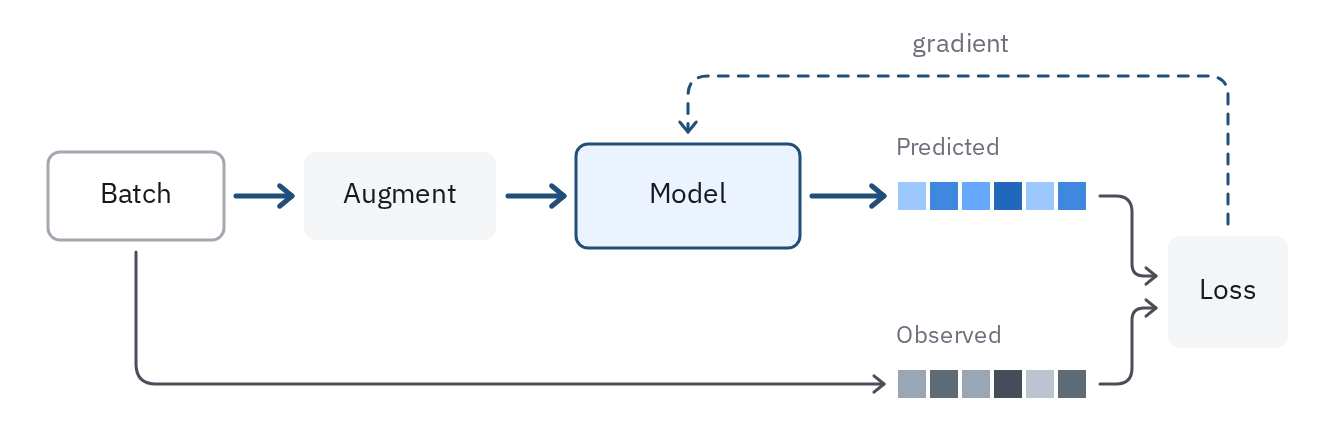
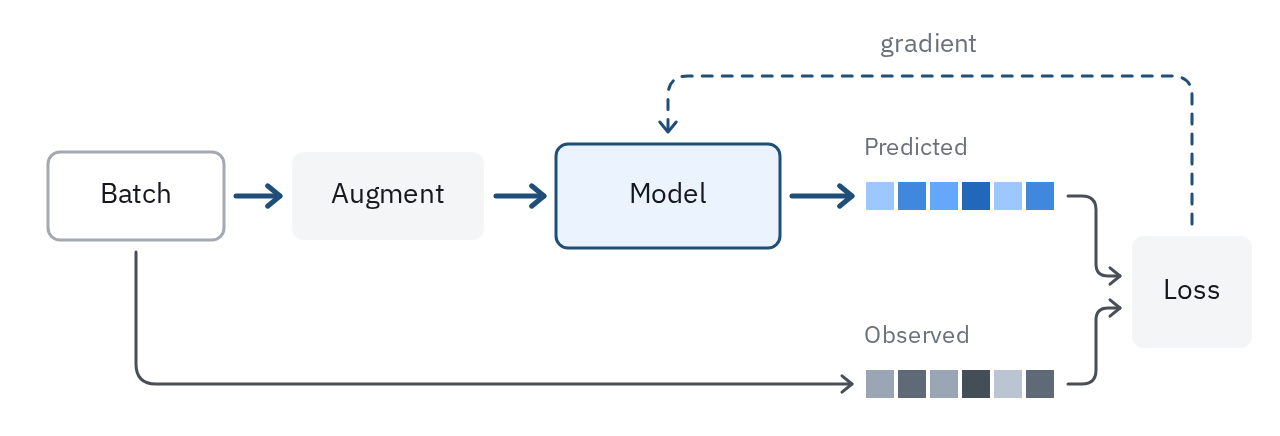
Fit form 28's two figures side by side on the contact sheet
The training step narrows to 640 px and the tree search to 784 px (56 px
state cards, 188 px columns), so the pair shares a row.

diff --git a/core/charts/forms/28-procedure-schematic.md b/core/charts/forms/28-procedure-schematic.md
@@ -30,27 +30,27 @@ It reads left to right, or top to bottom when the steps are tall.
 
 ![One training step: a batch, augmented, passed through the model; the prediction compared with the observed values; the loss's gradient fed back to the model](out/28-procedure-schematic.main.png)
 
-```js figure=main w=660 h=218
+```js figure=main w=640 h=218
 const S = GA.schematic(ga);
 const batch = S.block({ x: 24, y: 76, w: 88, h: 44, role: "data", label: "Batch" });
-const aug = S.block({ x: 152, y: 76, w: 96, h: 44, role: "op", label: "Augment" });
-const model = S.block({ x: 288, y: 72, w: 112, h: 52, role: "model", label: "Model" });
-const pred = S.cells({ x: 448, y: 90, n: 6, cell: 16, fill: (i) => tok(`blue-${[300, 500, 400, 600, 300, 500][i]}`) });
-const obs = S.cells({ x: 448, y: 184, n: 6, cell: 16, fill: (i) => tok(`slate-${[400, 600, 400, 700, 300, 600][i]}`) });
-ga.text("Predicted", { x: 448, y: 68, role: "tick", size: 12, color: "var(--muted)" });
-ga.text("Observed", { x: 448, y: 162, role: "tick", size: 12, color: "var(--muted)" });
-const loss = S.block({ x: 584, y: 118, w: 60, h: 56, role: "op", label: "Loss" });
+const aug = S.block({ x: 146, y: 76, w: 96, h: 44, role: "op", label: "Augment" });
+const model = S.block({ x: 278, y: 72, w: 112, h: 52, role: "model", label: "Model" });
+const pred = S.cells({ x: 432, y: 90, n: 6, cell: 16, fill: (i) => tok(`blue-${[300, 500, 400, 600, 300, 500][i]}`) });
+const obs = S.cells({ x: 432, y: 184, n: 6, cell: 16, fill: (i) => tok(`slate-${[400, 600, 400, 700, 300, 600][i]}`) });
+ga.text("Predicted", { x: 432, y: 68, role: "tick", size: 12, color: "var(--muted)" });
+ga.text("Observed", { x: 432, y: 162, role: "tick", size: 12, color: "var(--muted)" });
+const loss = S.block({ x: 566, y: 118, w: 60, h: 56, role: "op", label: "Loss" });
 // the forward path
 S.wire([S.port(batch, "r"), S.port(aug, "l")], { from: batch, to: aug });
 S.wire([S.port(aug, "r"), S.port(model, "l")], { from: aug, to: model });
 S.wire([S.port(model, "r"), S.port(pred, "l")], { from: model, to: pred });
-S.wire([S.port(pred, "r"), { x: 566, y: 98 }, { x: 566, y: 138 }, S.port(loss, "l", 20 / 56)], { tone: "minor", from: pred, to: loss });
+S.wire([S.port(pred, "r"), { x: 548, y: 98 }, { x: 548, y: 138 }, S.port(loss, "l", 20 / 56)], { tone: "minor", from: pred, to: loss });
 // the observed values go round the model, straight to the comparison
 S.wire([S.port(batch, "b"), { x: 68, y: 192 }, S.port(obs, "l")], { tone: "minor", from: batch, to: obs });
-S.wire([S.port(obs, "r"), { x: 566, y: 192 }, { x: 566, y: 154 }, S.port(loss, "l", 36 / 56)], { tone: "minor", from: obs, to: loss });
+S.wire([S.port(obs, "r"), { x: 548, y: 192 }, { x: 548, y: 154 }, S.port(loss, "l", 36 / 56)], { tone: "minor", from: obs, to: loss });
 // the gradient, fed back outside the forward path
-S.wire([S.port(loss, "t"), { x: 614, y: 38 }, { x: 344, y: 38 }, S.port(model, "t")], { tone: "minor", color: "var(--prussian)", dash: true, from: loss, to: model });
-ga.text("gradient", { x: 456, y: 16, role: "note", size: 13 });
+S.wire([S.port(loss, "t"), { x: 596, y: 38 }, { x: 334, y: 38 }, S.port(model, "t")], { tone: "minor", color: "var(--prussian)", dash: true, from: loss, to: model });
+ga.text("gradient", { x: 440, y: 16, role: "note", size: 13 });
 ```
 
 ## Steps in a row
@@ -77,7 +77,7 @@ the thing itself, and ink only what that step touches.
 
 ![A treatment search in four steps over patient-record cards: select a path by Q, expand its leaf into two new histories, evaluate one by its value and a rollout to the end of the record, back the value up the path](out/28-procedure-schematic.steps-in-a-row.png)
 
-```js figure=steps-in-a-row w=816 h=456
+```js figure=steps-in-a-row w=784 h=456
 const S = GA.schematic(ga);
 const INK = "var(--ink)", CTX = "var(--context)", PRU = "var(--prussian)", MUT = "var(--muted)";
 // a state is the record so far: earlier therapy, then one interval per action (a, b)
@@ -88,7 +88,7 @@ const record = (acts) => [
 ];
 const HIST = { R: "", A: "a", B: "b", C: "ba", D: "bb", E: "baa", F: "bab", T: "baab" };
 const KIDS = { R: ["A", "B"], B: ["C", "D"], C: ["E", "F"] };
-const at = (x0) => ({ R: [x0 + 90, 96], A: [x0 + 40, 172], B: [x0 + 130, 172], C: [x0 + 92, 248], D: [x0 + 166, 248], E: [x0 + 52, 324], F: [x0 + 128, 324], T: [x0 + 52, 412] });
+const at = (x0) => ({ R: [x0 + 86, 96], A: [x0 + 38, 172], B: [x0 + 126, 172], C: [x0 + 92, 248], D: [x0 + 160, 248], E: [x0 + 52, 324], F: [x0 + 128, 324], T: [x0 + 52, 412] });
 // per step: tone of each state, inked edges, edges a step adds, the edge label
 const STEPS = [
   { name: "Select", nodes: "RABCD", ink: "RBC", add: "", edges: ["R-B", "B-C"], label: "Q" },
@@ -97,14 +97,14 @@ const STEPS = [
   { name: "Back up", nodes: "RABCDEF", ink: "RBCE", add: "", edges: [], up: ["E-C", "C-B", "B-R"] },
 ];
 // depth guides, across every column
-ga.raw([134, 210, 286].map((y) => `<path d="M16 ${y}H800" stroke="var(--rule)" stroke-width="1" stroke-dasharray="3 3"/>`).join(""));
+ga.raw([134, 210, 286].map((y) => `<path d="M16 ${y}H768" stroke="var(--rule)" stroke-width="1" stroke-dasharray="3 3"/>`).join(""));
 const H = 19; // half a card's height
 const edgeLabel = (p, q, str, color) => {
   const mx = (p[0] + q[0]) / 2, my = (p[1] + q[1]) / 2, right = q[0] >= p[0];
   ga.text(`*${str}*`, { x: mx + (right ? 14 : -14), y: my - 10, anchor: right ? "start" : "end", role: "math", size: 15, color });
 };
 STEPS.forEach((st, i) => {
-  const x0 = 16 + i * 196, P = at(x0);
+  const x0 = 16 + i * 188, P = at(x0);
   S.step(i + 1, st.name, { x: x0, y: 18 });
   for (const [p, kids] of Object.entries(KIDS))
     for (const q of kids) {
@@ -116,7 +116,7 @@ STEPS.forEach((st, i) => {
       if (st.label && (p === "R" || p === "B" ? i === 0 : i === 1) && kids.length) edgeLabel(P[p], P[q], st.label, on ? INK : add ? PRU : MUT);
     }
   const card = {};
-  for (const k of st.nodes) card[k] = S.state({ cx: P[k][0], cy: P[k][1], rows: record(HIST[k].split("").filter(Boolean)), tone: st.add.includes(k) ? "add" : st.ink.includes(k) ? "ink" : "context" });
+  for (const k of st.nodes) card[k] = S.state({ cx: P[k][0], cy: P[k][1], w: 56, rows: record(HIST[k].split("").filter(Boolean)), tone: st.add.includes(k) ? "add" : st.ink.includes(k) ? "ink" : "context" });
   if (i === 2) {
     S.wire([{ x: P.E[0], y: P.E[1] + H + 4 }, { x: P.T[0], y: P.T[1] - H - 5 }], { color: PRU, width: 2.5, dash: true });
     S.fn(card.E, "v", { color: PRU });
@@ -138,4 +138,4 @@ STEPS.forEach((st, i) => {
 | Block | 1.5 px outline, 6 px radius, 14 px label | 0.5 pt, 0.6 mm radius, 6–7 pt |
 | Forward wire / feedback wire | 2.5 px / 1.5 px, `5 5` dash | 1 pt / 0.5 pt, `2 2` dash |
 | Step number and name | 16 px, 500 | 7 pt, 500 (the panel's own letter stays the panel letter) |
-| State card | 60 × 38 px, 1.5 px outline | 12 × 8 mm, 0.5 pt |
+| State card | 56 × 38 px, 1.5 px outline | 12 × 8 mm, 0.5 pt |
